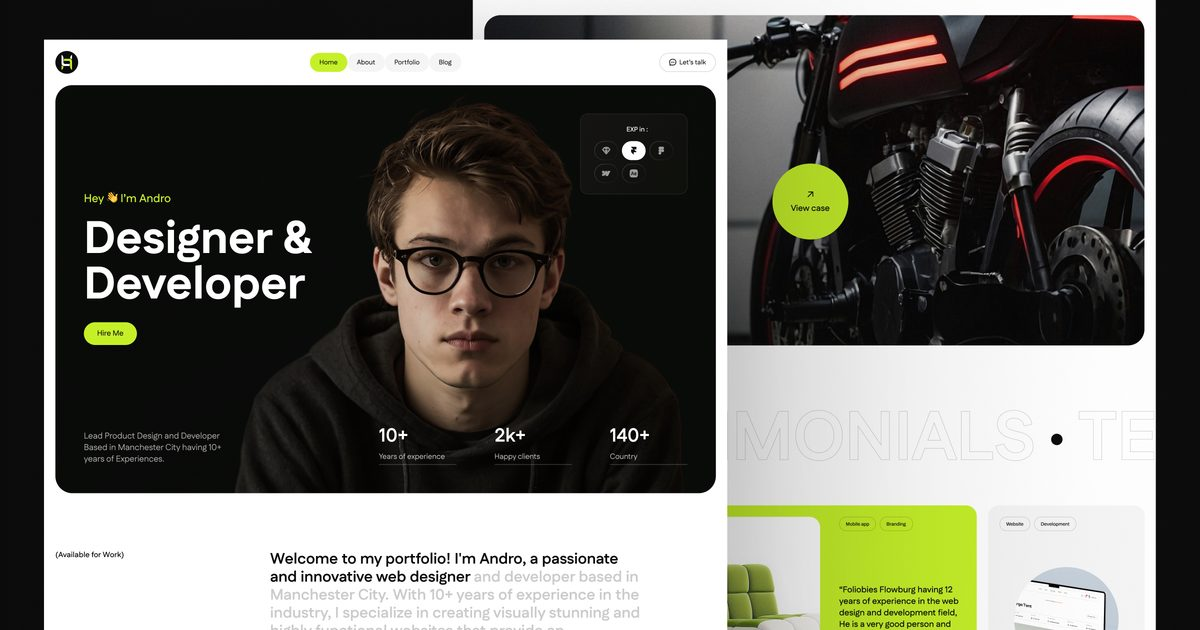
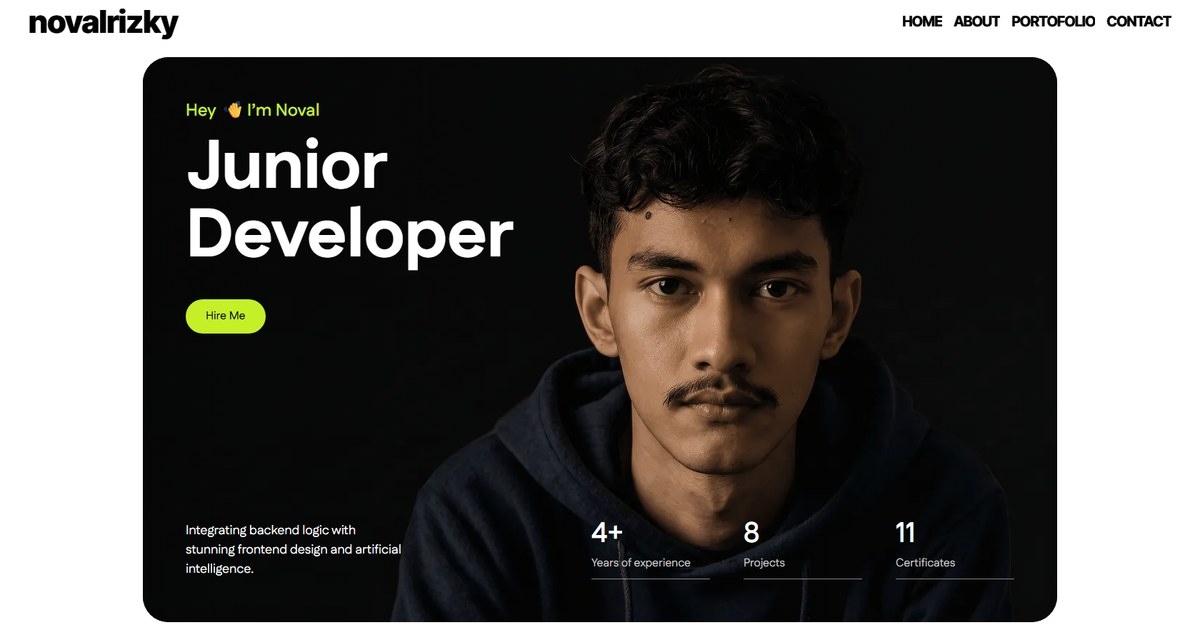
feat(site): update site identity, domain and hero stats
- Set the page title to 'Noval Rizky Nugraha - Fullstack Developer'
  with a personal meta description
- Use novalrizky24.my.id as the production site URL for canonical
  links, sitemap and link previews
- Update the favicon and the link preview image
- Replace template hero stats with values computed at build time:
  years of experience since September 2022, projects and certificates

diff --git a/src/data/site.ts b/src/data/site.ts
@@ -8,11 +8,11 @@ import machineLearningData from '@/assets/services/machine-learning-data.jpg';
 import devops from '@/assets/services/devops.jpg';
 
 export const site = {
-  name: 'Portox',
-  title: 'Portox - Personal Portfolio & Agency Site',
+  name: 'Noval Rizky Nugraha',
+  title: 'Noval Rizky Nugraha - Fullstack Developer',
   description:
-    'Portox is a personal portfolio & agency site designed to showcase your work. Ideal for freelancers, creative portfolios, creative agencies, digital agencies and personal portfolios.',
-  owner: 'Andro',
+    'Portfolio of Noval Rizky Nugraha, a fullstack developer and AI engineer from Indonesia building web applications, AI agents, and IoT projects.',
+  owner: 'Noval Rizky Nugraha',
   email: 'novalrizkynugraha@gmail.com',
 };
 
@@ -29,11 +29,8 @@ export const socials: { label: string; href: string; icon: IconName }[] = [
   { label: 'GitHub', href: 'https://github.com/NovalRizkyy24', icon: 'github' },
 ];
 
-export const heroStats = [
-  { value: 20, suffix: '+', label: 'Years of experience' },
-  { value: 2, suffix: 'k+', label: 'Happy clients' },
-  { value: 160, suffix: '+', label: 'Country' },
-];
+// Awal pengalaman, untuk menghitung "Years of experience" di hero (otomatis bertambah tiap September)
+export const careerStart = new Date('2022-09-01');
 
 export const intro =
   'Welcome to my portfolio! I’m Noval Rizky Nugraha, a Web Developer and AI Engineer based in Indonesia. As an Informatics graduate from Institut Teknologi Nasional Bandung, I specialize in combining web technologies with Artificial Intelligence to build smart, highly dynamic, and futuristic web applications.';
